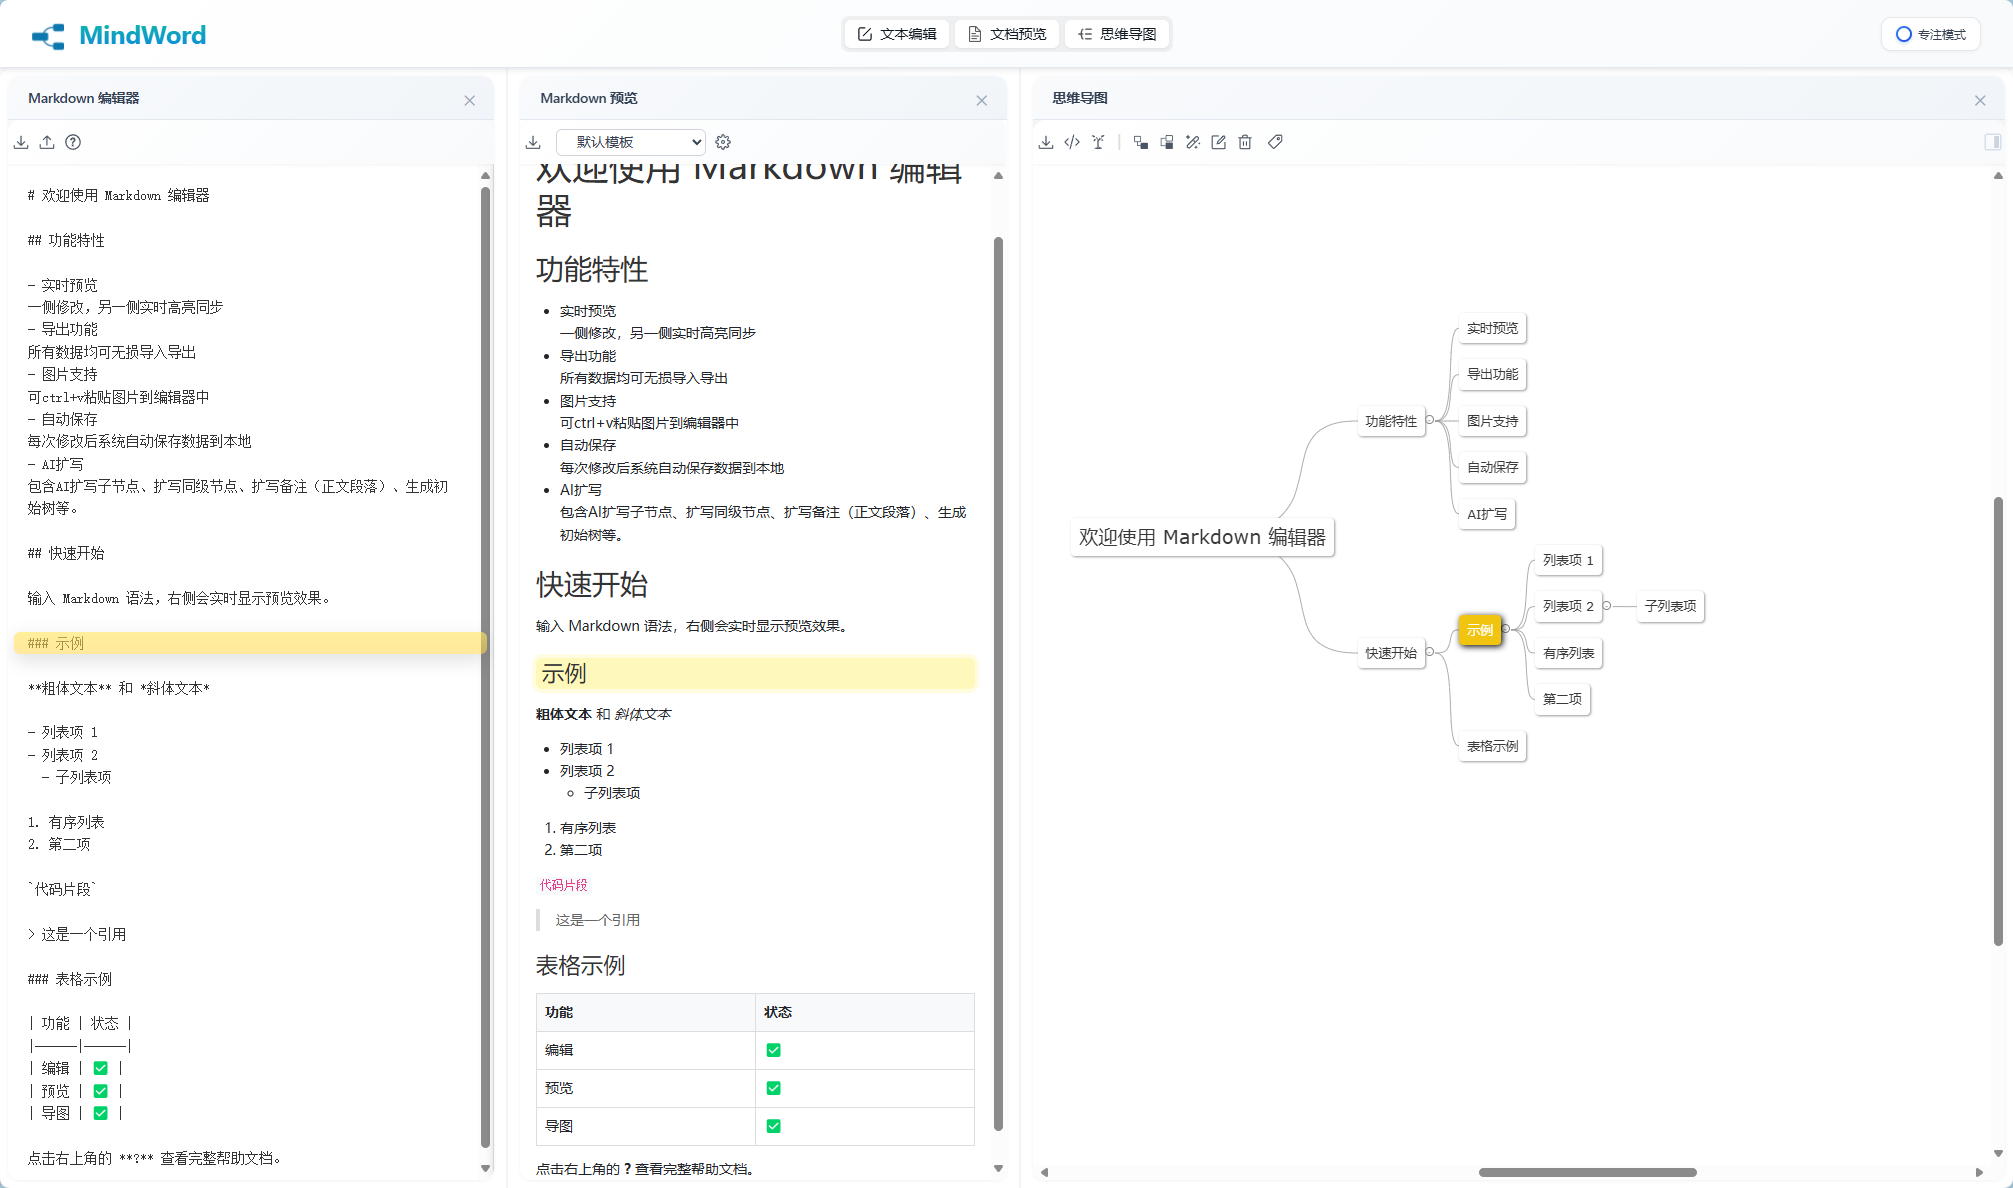
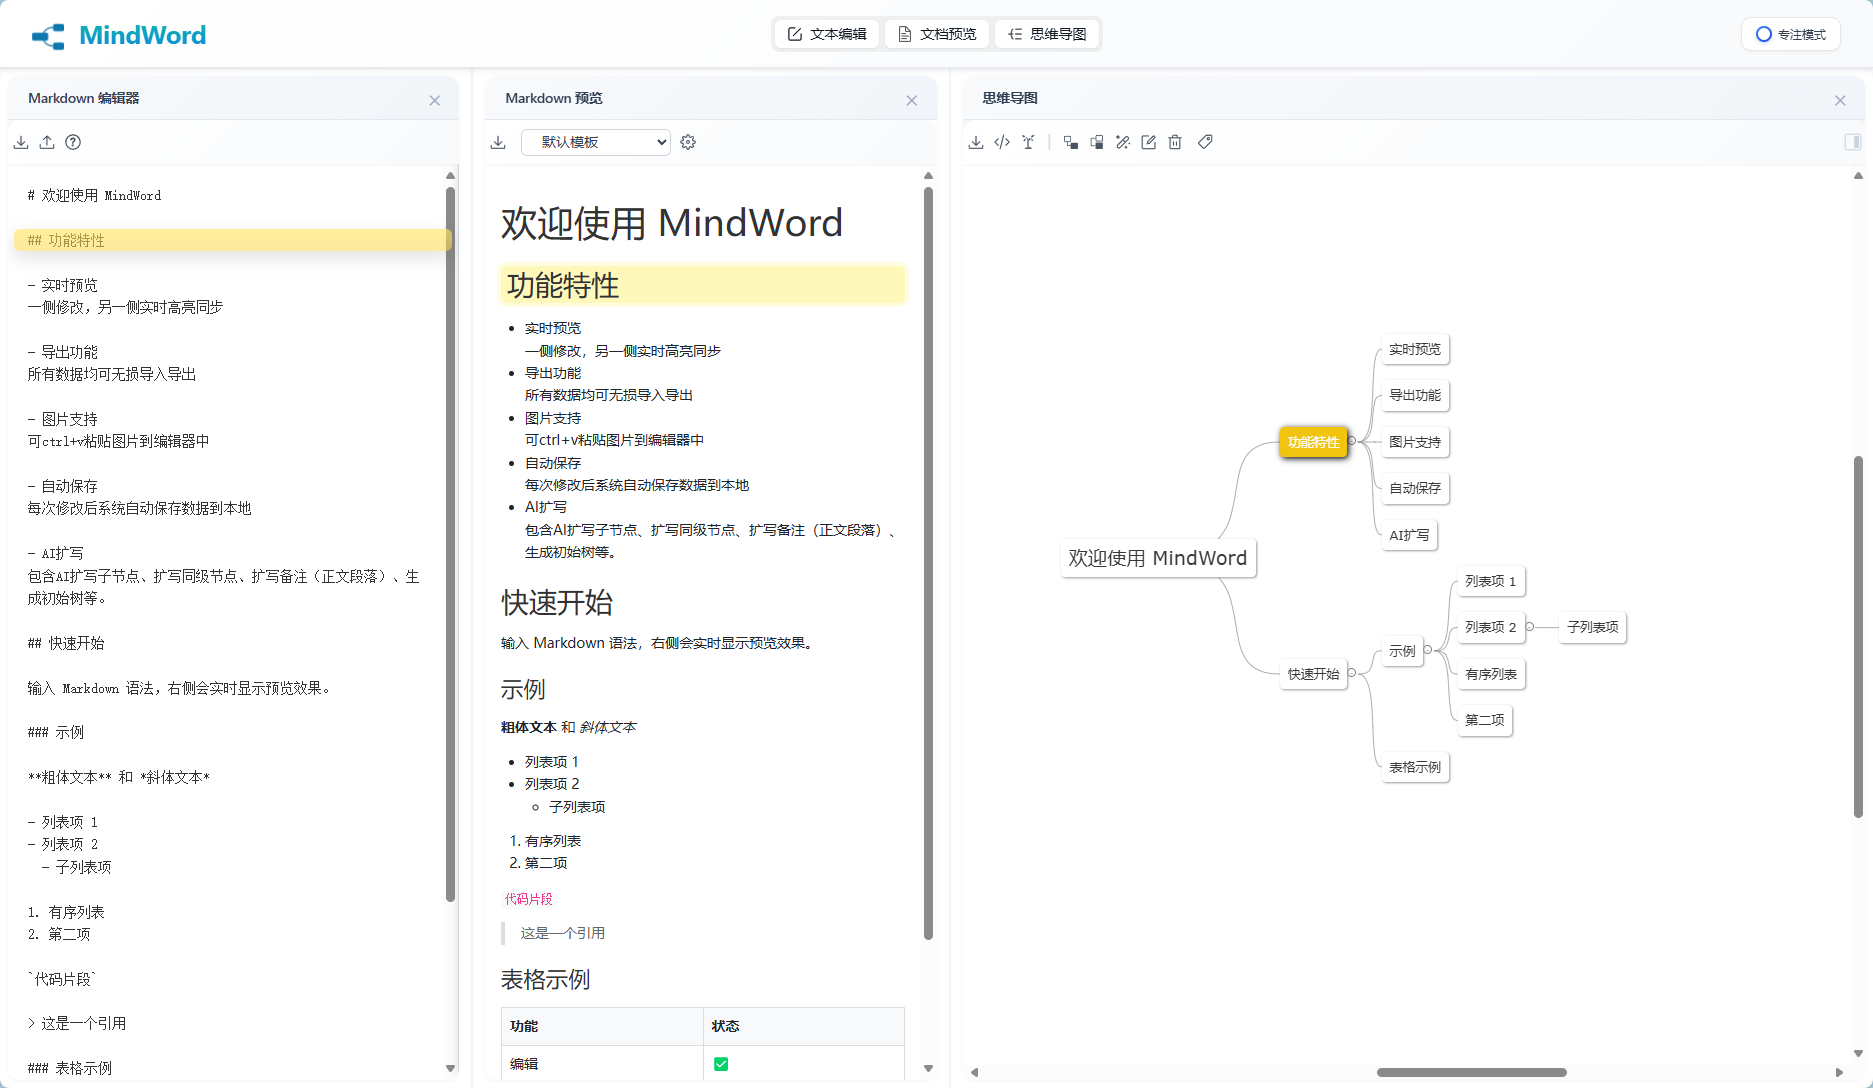
feat: 添加面板状态持久化功能并更新着陆页图片
添加localStorage状态保存功能，用于记住用户的面板布局和专注模式设置
更新资源文件路径，替换占位图片为实际产品截图和演示动图
修改导航菜单中的"功能亮点"为"核心功能"以统一术语

diff --git a/index.html b/index.html
@@ -291,6 +291,13 @@
         let focusMode = false;
         let activeFocusPanel = 'editor';
 
+        // 状态存储键名
+        const STORAGE_KEYS = {
+            focusMode: 'mindword_focus_mode',
+            activeFocusPanel: 'mindword_active_focus_panel',
+            panels: 'mindword_panels_state'
+        };
+
         // 拖拽状态 - 优化后的状态管理
         let dragState = {
             isDragging: false,
@@ -430,6 +437,9 @@
                 exitFocusMode();
             }
 
+            // 保存状态到localStorage
+            saveStateToStorage();
+
             updateLayout();
             updateTabs();
         }
@@ -471,6 +481,9 @@
                 panels[panelName] = !panels[panelName];
             }
 
+            // 保存状态到localStorage
+            saveStateToStorage();
+
             updateLayout();
             updateTabs();
         }
@@ -482,6 +495,8 @@
                 Object.keys(panels).forEach(name => {
                     panels[name] = (name === panelName);
                 });
+                // 保存状态到localStorage
+                saveStateToStorage();
                 updateLayout();
                 updateTabs();
             } else {
@@ -568,6 +583,64 @@
                     tab.classList.toggle('active', panels[panelName]);
                 }
             });
+        }
+
+        // 保存状态到localStorage
+        function saveStateToStorage() {
+            try {
+                localStorage.setItem(STORAGE_KEYS.focusMode, JSON.stringify(focusMode));
+                localStorage.setItem(STORAGE_KEYS.activeFocusPanel, JSON.stringify(activeFocusPanel));
+                localStorage.setItem(STORAGE_KEYS.panels, JSON.stringify(panels));
+            } catch (e) {
+                console.warn('Failed to save state to localStorage:', e);
+            }
+        }
+
+        // 从localStorage恢复状态
+        function restoreStateFromStorage() {
+            try {
+                const savedFocusMode = localStorage.getItem(STORAGE_KEYS.focusMode);
+                const savedActiveFocusPanel = localStorage.getItem(STORAGE_KEYS.activeFocusPanel);
+                const savedPanels = localStorage.getItem(STORAGE_KEYS.panels);
+
+                if (savedFocusMode !== null) {
+                    focusMode = JSON.parse(savedFocusMode);
+                }
+
+                if (savedActiveFocusPanel !== null) {
+                    activeFocusPanel = JSON.parse(savedActiveFocusPanel);
+                }
+
+                if (savedPanels !== null) {
+                    const parsedPanels = JSON.parse(savedPanels);
+                    Object.keys(panels).forEach(key => {
+                        if (parsedPanels.hasOwnProperty(key)) {
+                            panels[key] = parsedPanels[key];
+                        }
+                    });
+                }
+            } catch (e) {
+                console.warn('Failed to restore state from localStorage:', e);
+            }
+        }
+
+        // 应用恢复的状态
+        function applyRestoredState() {
+            const mainContent = document.getElementById('main-content');
+            const focusToggle = document.getElementById('focus-toggle');
+
+            if (focusMode) {
+                mainContent.classList.add('focus-mode');
+                focusToggle.classList.add('active');
+                focusToggle.querySelector('span').textContent = '退出专注';
+            } else {
+                mainContent.classList.remove('focus-mode');
+                focusToggle.classList.remove('active');
+                focusToggle.querySelector('span').textContent = '专注模式';
+            }
+
+            updateLayout();
+            updateTabs();
         }
 
         // ===================================
@@ -732,11 +805,16 @@
         // ===================================
 
         // 移动端自动进入专注模式（隐藏专注切换按钮并进入专注）
-        (function initMobileFocus() {
+        function initMobileFocus() {
             const isMobile = (window.matchMedia && window.matchMedia('(max-width: 768px)').matches)
                 || ('ontouchstart' in window && navigator.maxTouchPoints > 0);
             const focusToggle = document.getElementById('focus-toggle');
-            if (isMobile) {
+            
+            // 检查是否有保存的状态
+            const hasSavedState = localStorage.getItem(STORAGE_KEYS.focusMode) !== null;
+            
+            if (isMobile && !hasSavedState) {
+                // 只有在没有保存状态的情况下才应用移动端默认行为
                 // 隐藏专注切换按钮（样式已在 mobile CSS 中隐藏 header-right）
                 if (focusToggle) focusToggle.style.display = 'none';
 
@@ -751,8 +829,11 @@
                 if (typeof enterFocusMode === 'function') enterFocusMode();
                 if (typeof updateTabs === 'function') updateTabs();
                 if (typeof updateLayout === 'function') updateLayout();
+            } else if (isMobile && hasSavedState) {
+                // 如果有保存的状态，只隐藏专注切换按钮
+                if (focusToggle) focusToggle.style.display = 'none';
             }
-        })();
+        }
 
         // 专注模式切换按钮事件
         document.getElementById('focus-toggle').addEventListener('click', toggleFocusMode);
@@ -999,6 +1080,9 @@
 
         // 初始化应用
         function initApp() {
+            // 从localStorage恢复状态（在移动端自动专注模式之前）
+            restoreStateFromStorage();
+            
             updateLayout();
             initResizing();
 
@@ -1006,6 +1090,12 @@
             Object.keys(PAGE_CONFIG).forEach(panelName => {
                 loadPanelContent(panelName);
             });
+
+            // 应用恢复的状态到UI
+            applyRestoredState();
+
+            // 移动端自动专注模式初始化（在状态恢复之后）
+            initMobileFocus();
 
             // 监听来自子页面的消息
             window.addEventListener('message', handleNotificationMessage);

diff --git a/landing.html b/landing.html
@@ -127,7 +127,7 @@
 
                 <!-- 桌面导航 -->
                 <nav class="hidden md:flex items-center space-x-8">
-                    <a href="#features" class="nav-link text-dark/80 hover:text-primary transition-colors">功能亮点</a>
+                    <a href="#features" class="nav-link text-dark/80 hover:text-primary transition-colors">核心功能</a>
                     <a href="#scenarios" class="nav-link text-dark/80 hover:text-primary transition-colors">适用场景</a>
                     <a href="#getting-started"
                         class="nav-link text-dark/80 hover:text-primary transition-colors">快速开始</a>
@@ -152,7 +152,7 @@
         <!-- 移动端导航菜单 -->
         <div id="mobile-menu" class="md:hidden hidden bg-white border-t">
             <div class="container mx-auto px-4 py-3 space-y-3">
-                <a href="#features" class="block py-2 text-dark/80 hover:text-primary transition-colors">功能亮点</a>
+                <a href="#features" class="block py-2 text-dark/80 hover:text-primary transition-colors">核心功能</a>
                 <a href="#scenarios" class="block py-2 text-dark/80 hover:text-primary transition-colors">适用场景</a>
                 <a href="#getting-started" class="block py-2 text-dark/80 hover:text-primary transition-colors">快速开始</a>
                 <a href="#privacy" class="block py-2 text-dark/80 hover:text-primary transition-colors">隐私与存储</a>
@@ -179,7 +179,7 @@
                         像画图一样写文档
                     </p>
                     <div class="flex flex-col sm:flex-row gap-4 justify-center">
-                        <a href="#download"
+                        <a href="index.html"
                             class="bg-primary hover:bg-primary/90 text-white px-8 py-3 rounded-lg font-medium text-center transition-all shadow-lg hover:shadow-xl">
                             免费体验 <i class="fa fa-arrow-right ml-2"></i>
                         </a>
@@ -198,7 +198,7 @@
                         <div
                             class="absolute inset-0 bg-gradient-to-tr from-primary/20 to-secondary/20 rounded-3xl transform rotate-3 scale-105">
                         </div>
-                        <img src="https://picsum.photos/id/0/600/400" alt="MindWord产品界面展示"
+                        <img src="res/screenShot-all.png" alt="MindWord产品界面展示"
                             class="relative z-10 rounded-3xl shadow-2xl w-full">
                         <div
                             class="absolute -bottom-6 -left-6 bg-white p-4 rounded-xl shadow-lg z-20 border border-green-100">
@@ -222,7 +222,7 @@
                                 </div>
                                 <div>
                                     <p class="font-medium">AI辅助生成</p>
-                                    <p class="text-sm text-dark/60">快速扩展章节和内容</p>
+                                    <p class="text-sm text-dark/60">快速重写或扩展章节</p>
                                 </div>
                             </div>
                         </div>
@@ -328,11 +328,11 @@
             </div>
         </section>
 
-        <!-- 功能亮点 -->
+        <!-- 核心功能 -->
         <section id="features" class="py-20 bg-gray-50">
             <div class="container mx-auto px-4 sm:px-6 lg:px-8">
                 <div class="max-w-3xl mx-auto text-center mb-16">
-                    <h2 class="text-[clamp(1.5rem,3vw,2.5rem)] font-bold mb-6">功能亮点</h2>
+                    <h2 class="text-[clamp(1.5rem,3vw,2.5rem)] font-bold mb-6">核心功能</h2>
                     <div class="w-20 h-1 bg-primary mx-auto mb-8 rounded-full"></div>
                     <p class="text-lg text-dark/70">
                         MindWord 重新定义了结构化写作体验。通过将 Markdown结构与思维导图节点实时映射，实现可视化创作流程，让创作思路与正文完美融合。
@@ -422,7 +422,7 @@
                                     </div>
                                 </div>
                                 <div class="lg:w-1/2 bg-gray-100 p-8 flex items-center justify-center">
-                                    <img src="https://picsum.photos/id/180/600/400" alt="Markdown编辑器界面"
+                                    <img src="res/screenShot-editor.png" alt="Markdown编辑器界面"
                                         class="rounded-xl shadow-md max-w-full h-auto">
                                 </div>
                             </div>
@@ -489,7 +489,7 @@
                                     </div>
                                 </div>
                                 <div class="lg:w-1/2 bg-gray-100 p-8 flex items-center justify-center">
-                                    <img src="https://picsum.photos/id/160/600/400" alt="思维导图画布界面"
+                                    <img src="res/rec-mindmap.gif" alt="思维导图画布界面"
                                         class="rounded-xl shadow-md max-w-full h-auto">
                                 </div>
                             </div>
@@ -556,7 +556,7 @@
                                     </div>
                                 </div>
                                 <div class="lg:w-1/2 bg-gray-100 p-8 flex items-center justify-center">
-                                    <img src="https://picsum.photos/id/20/600/400" alt="Word文件生成示例"
+                                    <img src="res/rec-docx.gif" alt="Word文件生成示例"
                                         class="rounded-xl shadow-md max-w-full h-auto">
                                 </div>
                             </div>

diff --git a/editor/editor.html b/editor/editor.html
@@ -341,7 +341,7 @@
             <!-- 保存提示 -->
             <div class="save-notification" id="save-notification"></div>
 
-            <textarea class="editor" id="editor" placeholder="# 欢迎使用 Markdown 编辑器
+            <textarea class="editor" id="editor" placeholder="# 欢迎使用 MindWord
 
 ## 功能特性
 
